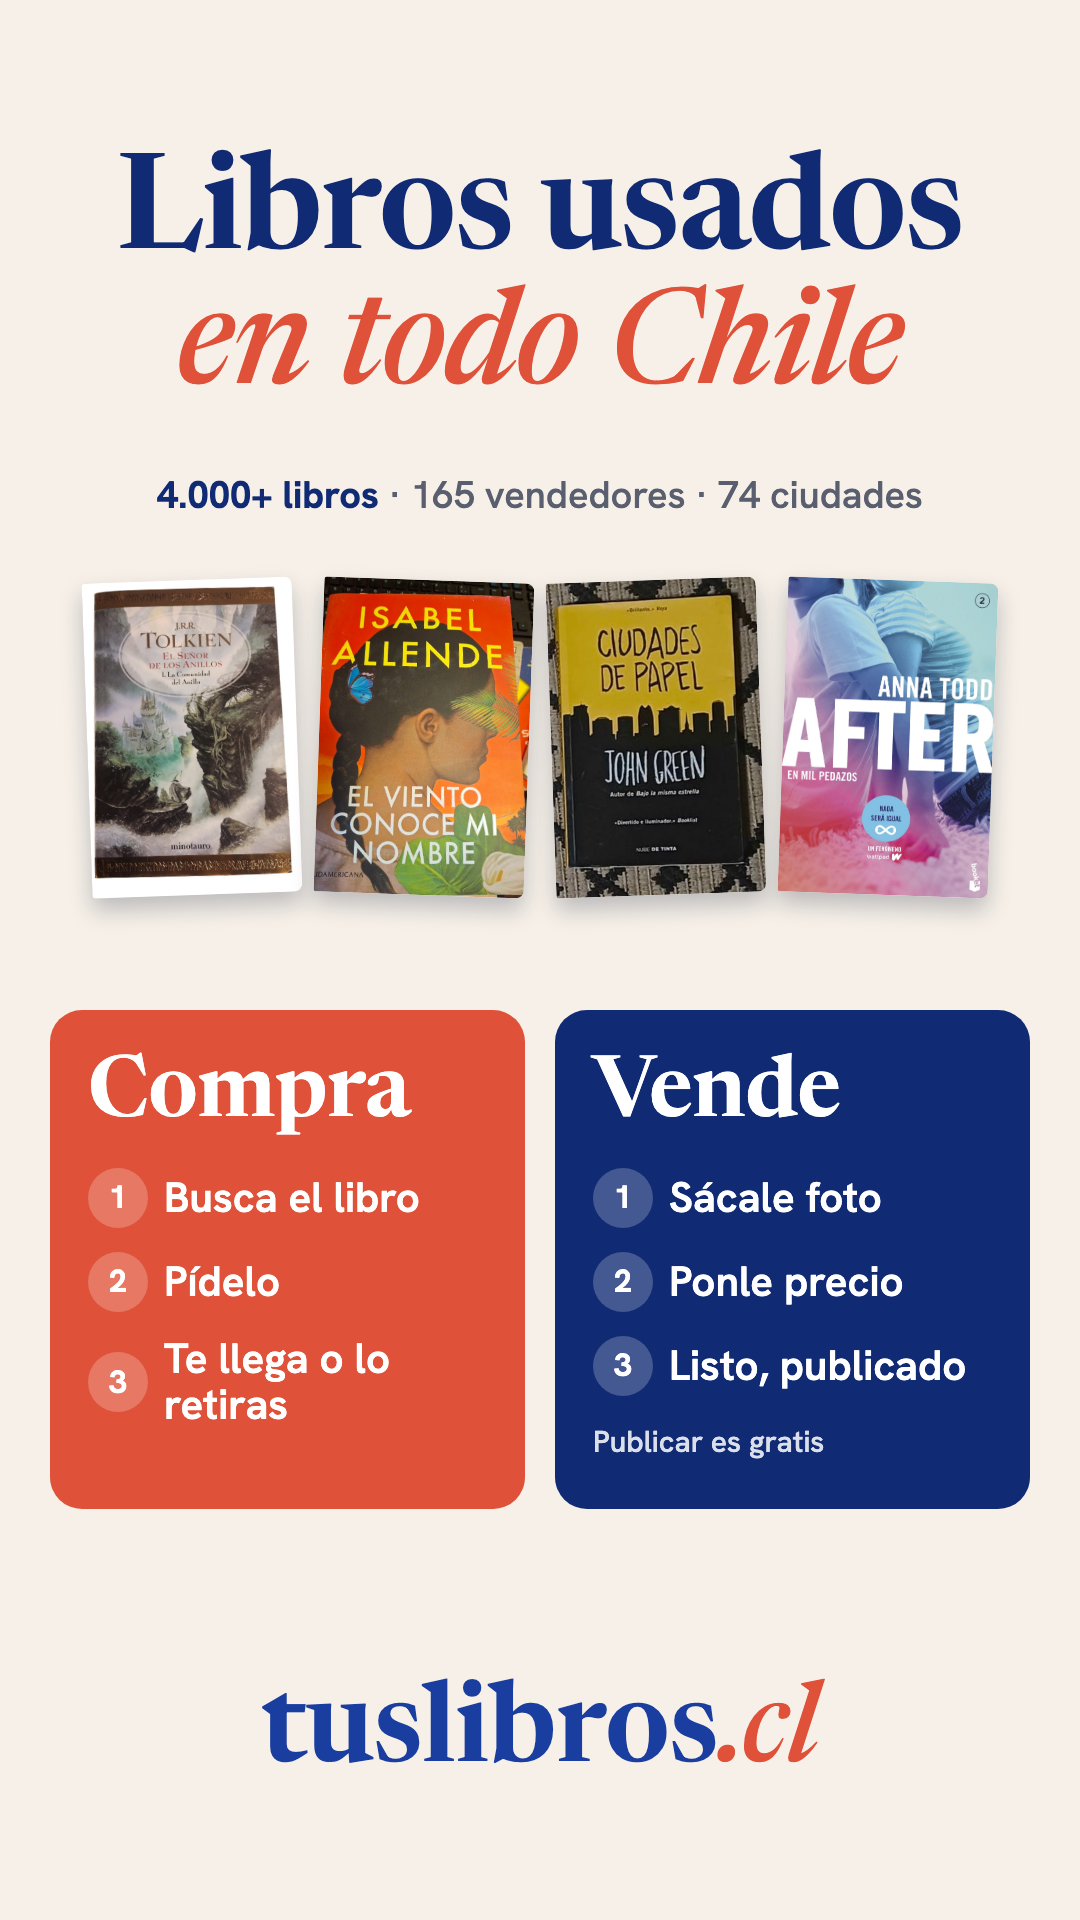
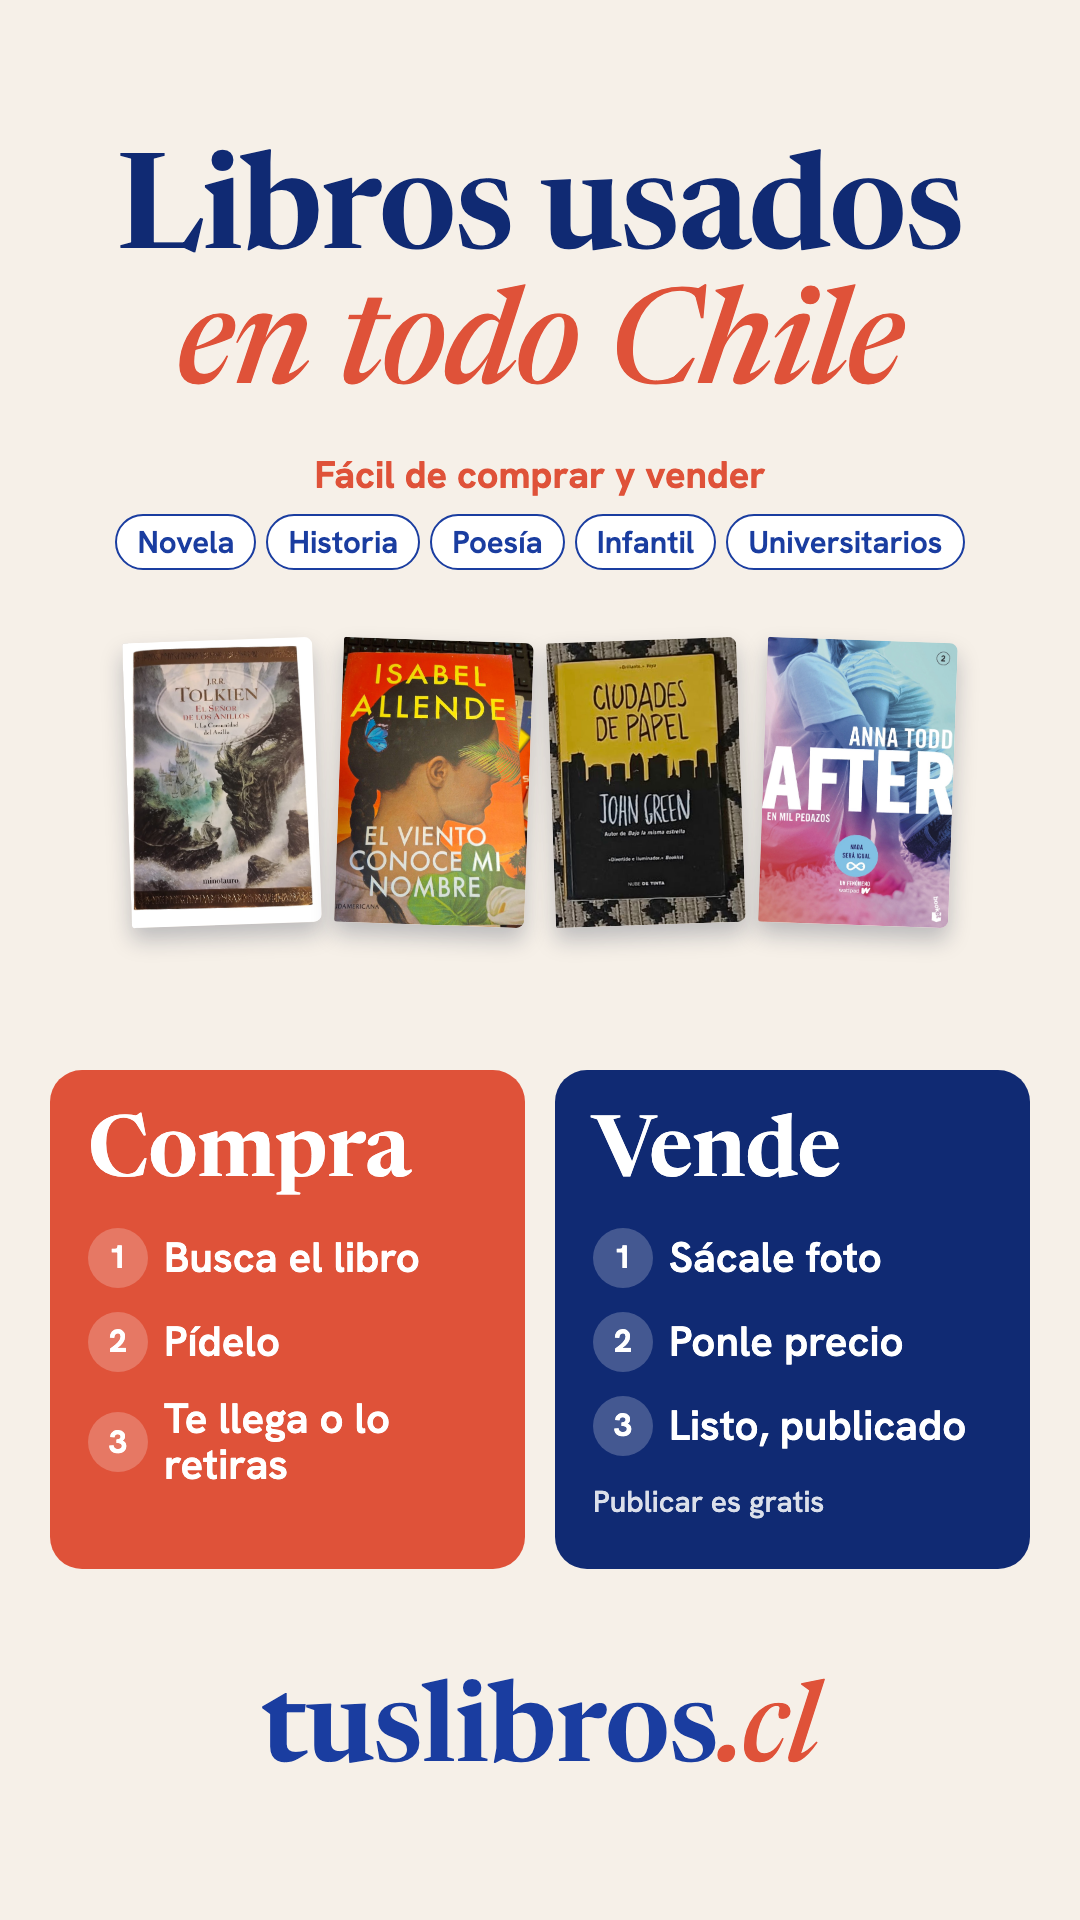
docs(piezas): difusión — «fácil» y categorías en vez de cifras (iteración con Vero)

Changed region(s): [[0.0306, 0.2188, 0.9778, 0.8438]]

diff --git a/docs/piezas/difusion_amiga_2026-09-27.html b/docs/piezas/difusion_amiga_2026-09-27.html
@@ -3,7 +3,8 @@
   Kit para que una amiga de Vero difunda tuslibros.cl por WhatsApp (27-09-2026).
   Objetivo: que quien nunca oyó del sitio entienda en 3 segundos QUÉ es y CÓMO funciona.
   Dos formatos con el mismo contenido: estado 9:16 y grupos 4:5.
-  Cifras de la base el 27-09-2026: 4.186 libros activos, 165 vendedores, 74 ciudades.
+  Categorías con más libros activos el 27-09-2026: Novela 1.068, Ensayo 671, Historia 519,
+  Poesía 186, Infantil y juvenil 168, Académico/Universitario 184. (Vero cambió las cifras por «fácil» + categorías.)
   "Te llega o lo retiras": despacho coordinado o encuentro en persona, según el vendedor.
 -->
 <html lang="es"><head><meta charset="utf-8">
@@ -19,7 +20,9 @@
   .titulo{text-align:center;font-family:Newsreader,serif;font-weight:600;line-height:1.02;letter-spacing:-1px}
   .titulo i{color:#DF5239;font-weight:500}
   .cifra{text-align:center;font-size:34px;color:#5a5f70;font-weight:500}
-  .cifra b{color:#102A73}
+  .cifra .facil{font-weight:700;color:#DF5239;margin-bottom:14px}
+  .chips{display:flex;justify-content:center;flex-wrap:wrap;gap:10px}
+  .chips span{border:2px solid #1A3DA0;color:#1A3DA0;border-radius:999px;padding:6px 20px;font-weight:600;font-size:.82em;background:#fff}
   .tapas{display:flex;justify-content:center;gap:22px}
   .tapas img{width:190px;aspect-ratio:2/3;object-fit:cover;border-radius:3px 8px 8px 3px;box-shadow:0 12px 22px rgba(20,30,60,.25),inset 5px 0 0 rgba(0,0,0,.18)}
   .tapas img:nth-child(odd){transform:rotate(-2deg)} .tapas img:nth-child(even){transform:rotate(2deg)}
@@ -37,10 +40,10 @@
 
   /* estado 9:16 */
   .estado .titulo{position:absolute;top:150px;left:50px;right:50px;font-size:132px}
-  .estado .cifra{position:absolute;top:470px;left:50px;right:50px;font-size:38px}
-  .estado .tapas{position:absolute;top:580px;left:0;right:0}
-  .estado .tapas img{width:210px}
-  .estado .cols{position:absolute;top:1010px;left:50px;right:50px;gap:30px}
+  .estado .cifra{position:absolute;top:450px;left:40px;right:40px;font-size:38px}
+  .estado .tapas{position:absolute;top:640px;left:0;right:0}
+  .estado .tapas img{width:190px}
+  .estado .cols{position:absolute;top:1070px;left:50px;right:50px;gap:30px}
   .estado .col{padding:44px 38px 48px}
   .estado .col h3{font-size:84px;margin-bottom:30px}
   .estado .col ol{gap:24px}
@@ -51,10 +54,11 @@
 
   /* grupo 4:5 */
   .grupo .titulo{position:absolute;top:70px;left:60px;right:60px;font-size:92px}
-  .grupo .cifra{position:absolute;top:300px;left:60px;right:60px;font-size:30px}
-  .grupo .tapas{position:absolute;top:370px;left:0;right:0}
-  .grupo .tapas img{width:150px}
-  .grupo .cols{position:absolute;top:640px;left:60px;right:60px}
+  .grupo .cifra{position:absolute;top:285px;left:40px;right:40px;font-size:30px}
+  .grupo .cifra .facil{margin-bottom:10px}
+  .grupo .tapas{position:absolute;top:420px;left:0;right:0}
+  .grupo .tapas img{width:128px}
+  .grupo .cols{position:absolute;top:660px;left:60px;right:60px}
   .grupo .col{padding:28px 30px 30px}
   .grupo .col h3{font-size:58px;margin-bottom:16px}
   .grupo .col li{font-size:32px}
@@ -64,7 +68,7 @@
 
 <template id="contenido">
   <h1 class="titulo">Libros usados<br><i>en todo Chile</i></h1>
-  <p class="cifra"><b>4.000+ libros</b> · 165 vendedores · 74 ciudades</p>
+  <div class="cifra"><p class="facil">Fácil de comprar y vender</p><div class="chips"><span>Novela</span><span>Historia</span><span>Poesía</span><span>Infantil</span><span>Universitarios</span></div></div>
   <div class="tapas">
     <img src="https://tfaqvnsdasaegkcahaal.supabase.co/storage/v1/object/public/covers/57283db7-3465-427d-a849-15adedf6ce65/c391932a-74f3-4054-aae2-c6081ac4a7ad/1783739386181-fhdm61meybl.jpg" alt="El Señor de los Anillos">
     <img src="https://api.tuslibros.cl/storage/v1/object/public/covers/ab2de6fc-ce4f-49a8-b70a-bccba9d201bd/1789325524768.jpg" alt="Isabel Allende">

diff --git a/docs/TABLERO_SESION_2026_09_24.md b/docs/TABLERO_SESION_2026_09_24.md
@@ -167,7 +167,7 @@ Precios y pisos en `docs_desde_claude/PISOS_LIBROS_VERO_2026-09.md` (privado: el
 - 24-09 — sección creada a pedido de Vero, a partir de su captura de Mercado Libre.
 - 27-09 — **Piezas de psicología hechas** (pedido de Vero): `docs/piezas/psicologia_compradores_2026-09-27.png` («¿Cuánto cuesta entender a Freud?», con portadas reales de Freud, Jung, Piaget y Maturana) y `psicologia_vendedores_2026-09-27.png` («¿Tus libros de la U siguen en la repisa?», 330 búsquedas en 90 días contra 40 libros). Cifras de la base, fuente en el HTML. **Ojo:** ninguno de los 10 libros de psicología o psiquiatría marcados como vendidos tuvo una orden pagada en el sitio (los marcó el vendedor), así que la pieza no dice «se vendieron acá». Rorschach: no hay en el catálogo ni nadie lo buscó en 180 días; lo más cercano es *Técnicas proyectivas del diagnóstico psicológico* (Anderson y Anderson, $15.000, nicolas). Además, dos **estados de WhatsApp 9:16** con el mínimo de texto: `psicologia_estado_compra_2026-09-27.png` («Psicología usada» + 4 portadas) y `psicologia_estado_venta_2026-09-27.png` («¿Tienes libros de psicología? Véndelos.» + tuslibros.cl/vender).
 - 27-09 — **Estados generales del sitio** (lo que Vero quería de verdad: que cualquiera sepa que existe): `docs/piezas/general_estado_compra_2026-09-27.png` («4.000+ libros usados», 6 portadas reales, «Compra aquí · tuslibros.cl») y `general_estado_vende_2026-09-27.png` («Vende tus libros», Foto · Precio · Listo, «Vende aquí · tuslibros.cl/vender»). Hoy hay 4.186 libros activos, de 165 vendedores y en 74 ciudades. Y una **genérica** que junta las dos: `general_estado_generica_2026-09-27.png` («4.000+ libros usados», 6 portadas, botones «Compra» y «Vende», tuslibros.cl).
-- 27-09 — **Kit de difusión para una amiga de Vero** (estados y grupos de WhatsApp; la gente no entendía qué es ni cómo funciona): `docs/piezas/difusion_estado_2026-09-27.png` (9:16) y `difusion_grupo_2026-09-27.png` (4:5). «Libros usados en todo Chile» · 4.000+ libros · 165 vendedores · 74 ciudades · Compra (Busca el libro · Pídelo · Te llega o lo retiras) · Vende (Sácale foto · Ponle precio · Listo, publicado · Publicar es gratis) · tuslibros.cl. «Pídelo» en vez de «Paga ahí mismo»: no todos los vendedores cobran en el sitio. **En iteración con Vero.**
+- 27-09 — **Kit de difusión para una amiga de Vero** (estados y grupos de WhatsApp; la gente no entendía qué es ni cómo funciona): `docs/piezas/difusion_estado_2026-09-27.png` (9:16) y `difusion_grupo_2026-09-27.png` (4:5). «Libros usados en todo Chile» · 4.000+ libros · 165 vendedores · 74 ciudades · Compra (Busca el libro · Pídelo · Te llega o lo retiras) · Vende (Sácale foto · Ponle precio · Listo, publicado · Publicar es gratis) · tuslibros.cl. «Pídelo» en vez de «Paga ahí mismo»: no todos los vendedores cobran en el sitio. **En iteración con Vero.** Iteración 2: la línea de cifras pasó a «Fácil de comprar y vender» + categorías con stock real (Novela, Historia, Poesía, Infantil, Universitarios).
 - 24-09 — captura de **Top10Books** (`/ofertas`): menú por uso (literatura complementaria, técnico y universitario, textos escolares, ofertas), filtro por tramos de precio con conteo ("Hasta $9.900 (17)"), filtro por autor con conteo, etiqueta de % de descuento y "Entrega mañana" en cada libro. Nuestro listado ya filtra por precio (mínimo y máximo) y autor, pero a mano, sin tramos ni conteos. Lo que más sirve es la idea 6f.
 
 ---
